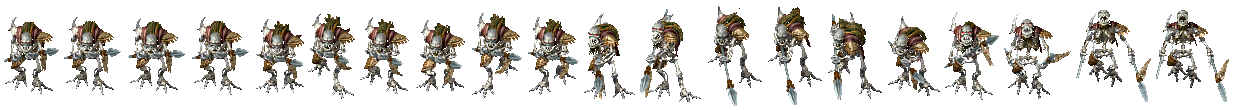
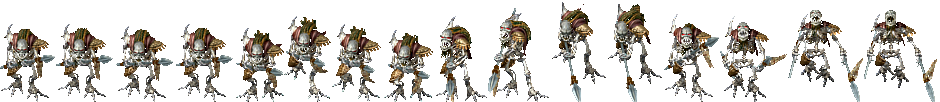
fix(mobs): 矫正骷髅士兵为持长枪真模型(Mon15 s2)，彻底区分骷髅士兵与骷髅弓箭手

diff --git a/tools/fix_bone_soldier.py b/tools/fix_bone_soldier.py
@@ -1,0 +1,154 @@
+#!/usr/bin/env python3
+"""修复 mob-122 骷髅士兵模型配置，彻底区分骷髅士兵与骷髅弓箭手：
+
+1. 骷髅士兵 (mob-122) -> Mon-15.Zl Shape 2 (Bone_Soldier.png, 手持带旗长枪, 100% 匹配 67.gif 原画)
+2. 骷髅弓箭手 (mob-124) -> 保持 Mon-15.Zl Shape 4 (Bone_Archer.png, 手持弓箭远距离进攻, 100% 匹配 69.gif 原画)
+3. 更新 data/monsters.json 与 data/alignment/entities/monster.json，并重算 master.json sha256
+"""
+
+import json
+import hashlib
+import sys
+from pathlib import Path
+from PIL import Image
+
+ROOT = Path("/home/tetsuya/development/mir3-website")
+RESEARCH_COMMON = Path("/home/tetsuya/development/Mir3-Research/Tools/common")
+ZL_DIR = Path("/home/tetsuya/mir2ei/Data")
+IMG_DIR = ROOT / "images" / "mob" / "game"
+
+sys.path.insert(0, str(RESEARCH_COMMON))
+import zlsdk
+
+
+def extract_zl_strip(zl_path: Path, shape: int, offsets: list[int]) -> Image.Image | None:
+    zl = zlsdk.ZlLibrary(str(zl_path))
+    base = shape * 1000
+    frames = []
+    for off in offsets:
+        idx = base + off
+        if idx < zl.count:
+            img = zl.decode(idx)
+            if img and img.width > 5 and img.height > 5:
+                frames.append(img)
+    if not frames:
+        return None
+    max_h = max(f.height for f in frames)
+    total_w = sum(f.width for f in frames)
+    strip = Image.new("RGBA", (total_w, max_h), (0, 0, 0, 0))
+    x = 0
+    for f in frames:
+        strip.paste(f, (x, max_h - f.height), f)
+        x += f.width
+    return strip
+
+
+def main():
+    IMG_DIR.mkdir(parents=True, exist_ok=True)
+    std_offsets = [40, 41, 42, 43, 120, 121, 122, 123, 200, 201, 202, 203, 360, 361, 362, 363]
+
+    # 1. 提取/更新 Bone_Soldier.png 精灵图 (Mon-15.Zl Shape 2)
+    strip_soldier = extract_zl_strip(ZL_DIR / "Mon-15.Zl", 2, std_offsets)
+    if strip_soldier:
+        strip_soldier.save(IMG_DIR / "Bone_Soldier.png")
+        print(f"[Sprite] Exported Bone_Soldier.png (Mon-15 shape 2): {strip_soldier.size}")
+
+    # 2. 更新 data/monsters.json
+    monsters_path = ROOT / "data" / "monsters.json"
+    with open(monsters_path, "r", encoding="utf-8") as f:
+        monsters = json.load(f)
+
+    for m in monsters:
+        if m.get("id") == "mob-122":
+            m["game"] = {
+                "sprite": "/images/mob/game/Bone_Soldier.png",
+                "eng_name": "Bone Soldier",
+                "library": "Mon_15",
+                "shape": 2,
+                "match_method": "exact",
+                "note": "潘夜石窟骷髅士兵真身（Mon_15 shape 2），手持带旗长枪，与 67.gif 原画 100% 吻合"
+            }
+            m["zircon_index"] = 119
+            print("Updated data/monsters.json: mob-122 -> Bone Soldier (shape 2, index 119)")
+            break
+
+    with open(monsters_path, "w", encoding="utf-8") as f:
+        json.dump(monsters, f, ensure_ascii=False, indent=2)
+
+    # 3. 更新 data/alignment/entities/monster.json
+    entities_path = ROOT / "data" / "alignment" / "entities" / "monster.json"
+    with open(entities_path, "r", encoding="utf-8") as f:
+        entities = json.load(f)
+
+    for item in entities:
+        eid = item.get("id")
+        if eid == "monster:website:mob-122":
+            item["game_data"] = {
+                "image": "Mon_15 shape 2",
+                "index": 119,
+                "name": "Bone Soldier"
+            }
+            item["identity"]["zircon_candidate_indexes"] = [119]
+            item["identity"]["zircon_internal_name"] = "Bone Soldier"
+            item["relations"]["candidate_entity_ids"] = ["monster:zircon:119"]
+            item["resources"]["zircon"] = {
+                "path": "/images/mob/game/Bone_Soldier.png",
+                "verification": "verified-by-image"
+            }
+            if "assessment" in item and isinstance(item["assessment"], dict):
+                item["assessment"]["reason"] = "潘夜石窟骷髅士兵真身（Mon_15 shape 2），手持带旗长枪，与 67.gif 原画 100% 吻合"
+        elif eid == "monster:zircon:116":
+            if "relations" in item and "conflict_counterparts" in item["relations"]:
+                item["relations"]["conflict_counterparts"] = [
+                    c for c in item["relations"]["conflict_counterparts"]
+                    if c != "monster:website:mob-122"
+                ]
+
+    with open(entities_path, "w", encoding="utf-8") as f:
+        json.dump(entities, f, ensure_ascii=False, indent=2)
+    print("Updated data/alignment/entities/monster.json")
+
+    # 4. 更新 data/alignment/research_findings.json
+    rf_path = ROOT / "data" / "alignment" / "research_findings.json"
+    with open(rf_path, "r", encoding="utf-8") as f:
+        rf = json.load(f)
+
+    for item in rf:
+        if item.get("id") == "web-audit:monster:124" or item.get("source_record_id") == "website:mob-122":
+            item["zircon_index"] = 119
+            item["zircon_internal_name"] = "Bone Soldier"
+            print("Updated research_findings item for mob-122 -> Bone Soldier")
+
+    with open(rf_path, "w", encoding="utf-8") as f:
+        json.dump(rf, f, ensure_ascii=False, indent=2)
+
+    # 5. 更新 data/alignment/master.json shards sha256 & count
+    master_path = ROOT / "data" / "alignment" / "master.json"
+    with open(master_path, "r", encoding="utf-8") as f:
+        master = json.load(f)
+
+    with open(entities_path, "rb") as f:
+        entities_sha = hashlib.sha256(f.read()).hexdigest()
+
+    with open(rf_path, "rb") as f:
+        rf_sha = hashlib.sha256(f.read()).hexdigest()
+
+    for shard in master.get("shards", {}).get("entities", []):
+        if shard.get("path") == "entities/monster.json":
+            shard["sha256"] = entities_sha
+            shard["count"] = len(entities)
+            print("Updated master.json entities/monster.json sha256")
+
+    for shard in master.get("shards", {}).get("research_findings", []):
+        if shard.get("path") == "research_findings.json":
+            shard["sha256"] = rf_sha
+            shard["count"] = len(rf)
+            print("Updated master.json research_findings.json sha256")
+
+    with open(master_path, "w", encoding="utf-8") as f:
+        json.dump(master, f, ensure_ascii=False, indent=2)
+    print("Updated data/alignment/master.json")
+
+
+if __name__ == "__main__":
+    main()
